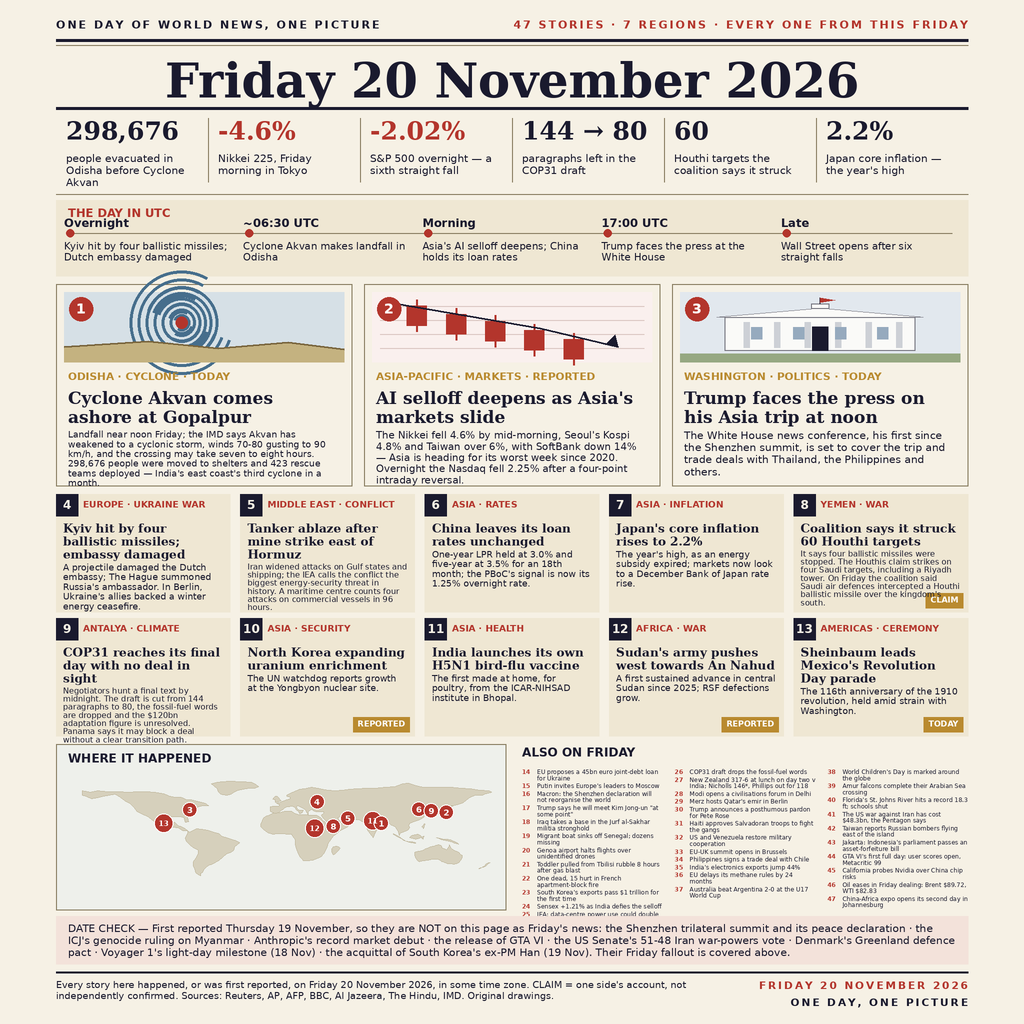
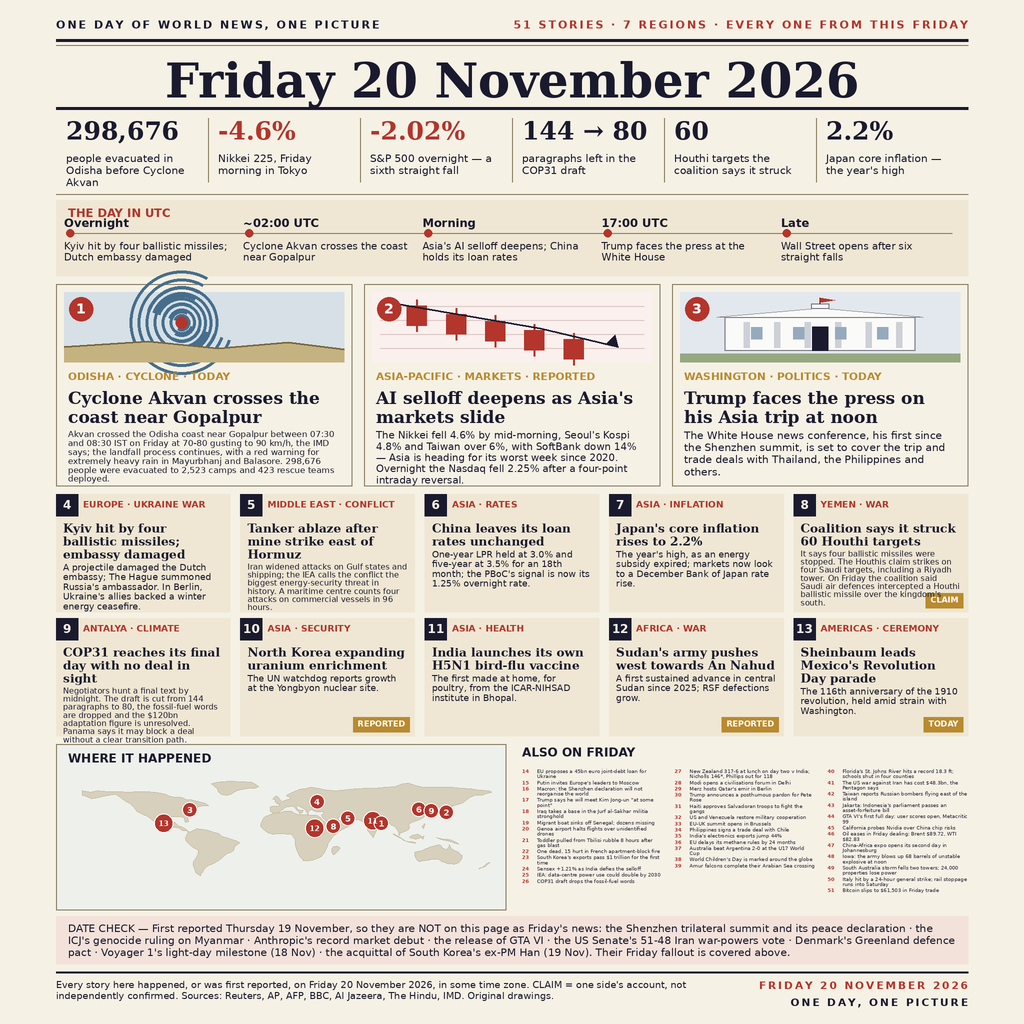
v4: Akvan crossing reported as it happened (IMD), 51 stories

diff --git a/build_poster.py b/build_poster.py
@@ -115,7 +115,7 @@ CW = 1024 - 2 * MX  # content width (final px)
 # ---------------------------------------------------------------- 1. kicker
 kf = sans_b(11)
 spaced(MX, 18, "ONE DAY OF WORLD NEWS, ONE PICTURE", kf, INK)
-spaced_right(1024 - MX, 18, "47 STORIES · 7 REGIONS · EVERY ONE FROM THIS FRIDAY", kf, RED)
+spaced_right(1024 - MX, 18, "51 STORIES · 7 REGIONS · EVERY ONE FROM THIS FRIDAY", kf, RED)
 hline(MX, 1024 - MX, 40, INK, 3)
 hline(MX, 1024 - MX, 45, HAIR, 1)
 
@@ -153,7 +153,7 @@ d.rectangle([X(MX), X(ty), X(1024 - MX), X(ty + 76)], fill=PANEL)
 d.text((X(MX + 12), X(ty + 6)), "THE DAY IN UTC", font=sans_b(11.5), fill=RED)
 stops = [
     ("Overnight", "Kyiv hit by four ballistic missiles; Dutch embassy damaged"),
-    ("~06:30 UTC", "Cyclone Akvan makes landfall in Odisha"),
+    ("~02:00 UTC", "Cyclone Akvan crosses the coast near Gopalpur"),
     ("Morning", "Asia's AI selloff deepens; China holds its loan rates"),
     ("17:00 UTC", "Trump faces the press at the White House"),
     ("Late", "Wall Street opens after six straight falls"),
@@ -216,8 +216,8 @@ def art_whitehouse(x, y, w, h):
 
 # ---------------------------------------------------------------- 5. hero cards
 heroes = [
-    ("1", "ODISHA · CYCLONE · TODAY", "Cyclone Akvan comes ashore at Gopalpur",
-     "Landfall near noon Friday; the IMD says Akvan has weakened to a cyclonic storm, winds 70-80 gusting to 90 km/h, and the crossing may take seven to eight hours. 298,676 people were moved to shelters and 423 rescue teams deployed — India's east coast's third cyclone in a month.", art_storm),
+    ("1", "ODISHA · CYCLONE · TODAY", "Cyclone Akvan crosses the coast near Gopalpur",
+     "Akvan crossed the Odisha coast near Gopalpur between 07:30 and 08:30 IST on Friday at 70-80 gusting to 90 km/h, the IMD says; the landfall process continues, with a red warning for extremely heavy rain in Mayurbhanj and Balasore. 298,676 people were evacuated to 2,523 camps and 423 rescue teams deployed.", art_storm),
     ("2", "ASIA-PACIFIC · MARKETS · REPORTED", "AI selloff deepens as Asia's markets slide",
      "The Nikkei fell 4.6% by mid-morning, Seoul's Kospi 4.8% and Taiwan over 6%, with SoftBank down 14% — Asia is heading for its worst week since 2020. Overnight the Nasdaq fell 2.25% after a four-point intraday reversal.", art_chart),
     ("3", "WASHINGTON · POLITICS · TODAY", "Trump faces the press on his Asia trip at noon",
@@ -238,8 +238,8 @@ for i, (num, tag, head, dek, art) in enumerate(heroes):
     yy = draw_lines(cx + 12, hy + 104, wrap(head, hf, hw - 24), hf, INK, 1.12)
     # Heroes 1 and 2 have longer deks; they are set a touch smaller so each
     # stays inside its card.
-    hdkf = {"1": sans(9.0), "2": sans(10.0)}.get(num, dkf)
-    hlead = {"1": 1.08, "2": 1.12}.get(num, 1.15)
+    hdkf = {"1": sans(8.5), "2": sans(10.0)}.get(num, dkf)
+    hlead = {"1": 1.05, "2": 1.12}.get(num, 1.15)
     draw_lines(cx + 12, yy + 3, wrap(dek, hdkf, hw - 24), hdkf, INK, hlead)
 
 # ---------------------------------------------------------------- 6. story grid 4-13
@@ -391,7 +391,7 @@ briefs = [
     "Australia beat Argentina 2-0 at the U17 World Cup",
     "World Children's Day is marked around the globe",
     "Amur falcons complete their Arabian Sea crossing",
-    "Florida's St. Johns River hits a record 18.3 ft; schools shut",
+    "Florida's St. Johns River hits a record 18.3 ft; schools shut in four counties",
     "The US war against Iran has cost $48.3bn, the Pentagon says",
     "Taiwan reports Russian bombers flying east of the island",
     "Jakarta: Indonesia's parliament passes an asset-forfeiture bill",
@@ -399,6 +399,10 @@ briefs = [
     "California probes Nvidia over China chip risks",
     "Oil eases in Friday dealing: Brent $89.72, WTI $82.83",
     "China-Africa expo opens its second day in Johannesburg",
+    "Iowa: the army blows up 68 barrels of unstable explosive at noon",
+    "South Australia storm fells two towers; 24,000 properties lose power",
+    "Italy hit by a 24-hour general strike; rail stoppage runs into Saturday",
+    "Bitcoin slips to $61,503 in Friday trade",
 ]
 bcolw = (aw - 24) / 3
 per = (len(briefs) + 2) // 3
@@ -420,7 +424,8 @@ def brief_height(fs, leading, gap):
 # Shrink the brief type until all three columns fit inside the band.
 bfs, blead, bgap = 6.0, 1.05, 1.5
 for fs_try, lead_try, gap_try in ((7.5, 1.05, 2.0), (7.0, 1.05, 1.8), (7.0, 1.03, 1.5),
-                                  (6.5, 1.05, 1.5), (6.5, 1.03, 1.2), (6.0, 1.05, 1.5)):
+                                  (6.5, 1.05, 1.5), (6.5, 1.03, 1.2), (6.0, 1.05, 1.5),
+                                  (5.5, 1.03, 1.0), (5.25, 1.03, 1.0), (5.0, 1.03, 1.0)):
     if brief_height(fs_try, lead_try, gap_try) <= bh - 28:
         bfs, blead, bgap = fs_try, lead_try, gap_try
         break
